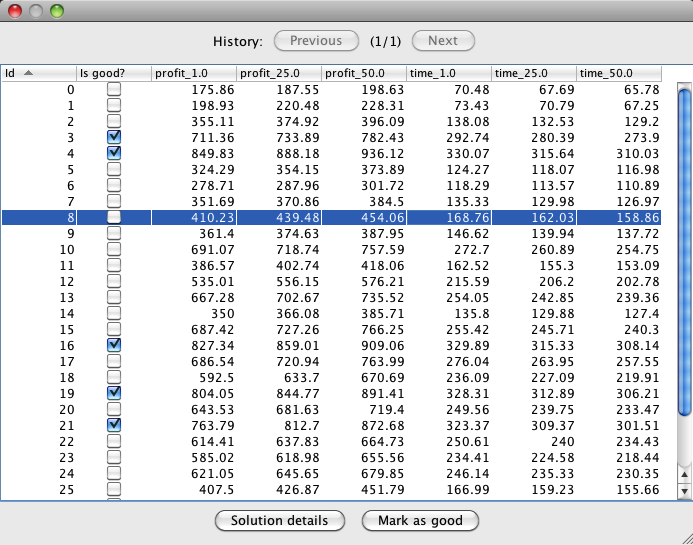
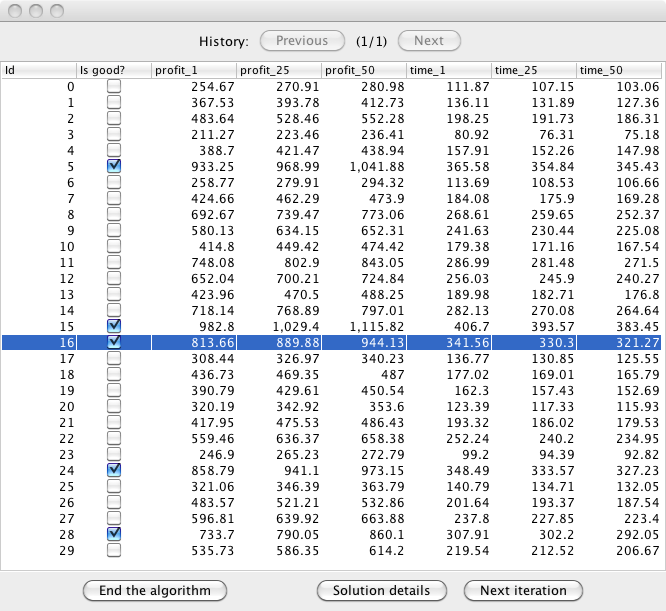
working

Changed region(s): [[0.0, 0.0, 1.0, 0.9982], [0.991, 0.967, 1.0, 0.9982]]

diff --git a/Thesis/app_user_manual.tex b/Thesis/app_user_manual.tex
@@ -39,15 +39,16 @@ solve a~problem one need to execute following steps:
   (Figure~\ref{manual_03_selected}). Click ``Solve''.
 \item A window presenting generated solutions appears
   (Figure~\ref{manual_04_mark_as_good}). Mark preferred solutions as ``good''
-  using checkboxes in the ``is good'' column.
+  using checkboxes in the ``Is good'' column. Click ``Next iteration'' in
+  order to start evolutionary optimization procedure.
 \item A window with solution details can be invoked by selecting a~solution
   and clicking the ``Solution details'' button (Figure~\ref{manual_05_dec_var}).
 \item After selecting the solutions an evolutionary optimization begins
   (Figure~\ref{manual_06_evo_loop}). New solutions are generated and one can
   mark ``good'' solutions from a new set again.
-\item If generated solutions are satisfactory, then one can stop the
-  algorithm by clicking ``Mark as good'' when no solutions are selected
-  (Figure~\ref{manual_07_finish}).
+\item If generated solutions are satisfactory, then one can stop the algorithm
+  by clicking ``End the algorithm''. It there are solutions marked as good,
+  they will be saved. (Figure~\ref{manual_07_finish}).
 \end{enumerate}
 
 \begin{figure}[htb]
@@ -66,14 +67,14 @@ solve a~problem one need to execute following steps:
 
 \begin{figure}
   \centering
-  \includegraphics[scale=0.7]{img/manual/04_marking_solutions}
+  \includegraphics[scale=0.6]{img/manual/04_marking_solutions}
   \caption{Marking the ``good'' subset of generated solutions}
   \label{manual_04_mark_as_good}
 \end{figure}
 
 \begin{figure}
   \centering
-  \includegraphics[scale=0.7]{img/manual/05_solution_details}
+  \includegraphics[scale=0.6]{img/manual/05_solution_details}
   \caption{Decision variables for a given solution}
   \label{manual_05_dec_var}
 \end{figure}
@@ -87,7 +88,7 @@ solve a~problem one need to execute following steps:
 
 \begin{figure}
   \centering
-  \includegraphics[scale=0.7]{img/manual/07_end_of_run}
+  \includegraphics[scale=0.6]{img/manual/07_end_of_run}
   \caption{Finish the problem analysis}
   \label{manual_07_finish}
 \end{figure}
@@ -167,14 +168,14 @@ using the history toolbar (see\ref{manual_10_history}).
 
 \begin{figure}
   \centering
-  \includegraphics[scale=0.7]{img/manual/09_sorton}
+  \includegraphics[scale=0.6]{img/manual/09_sorton}
   \caption{Sorting solutions on a given criterion}
   \label{manual_09_sorton}
 \end{figure}
 
 \begin{figure}
   \centering
-  \includegraphics[scale=0.7]{img/manual/10_history}
+  \includegraphics[scale=0.6]{img/manual/10_history}
   \caption{Reviewing the history of generated solutions}
   \label{manual_10_history}
 \end{figure}
@@ -195,7 +196,7 @@ starting with \texttt{\#}, e.g. \texttt{ \#a-line-comment} and (2) block
 comments, enclosed in \texttt{/* */}. Whitespaces are ignored.
 
 A problem file consists of lines, each line contains a~statement ended by
-a~semicolon (\texttt{;}). A statement can define the supposed utility
+a~semicolon (\texttt{;}). A~statement can define the supposed utility
 function, a~variable, a~goal or a~constraint. The variables are defining the
 problem domain. They can be continuous (with double floating point precision),
 binary (indicated by a \texttt{(B)} flag) or integer (\texttt{(I)} flag).

diff --git a/Thesis/sec_implementation.tex b/Thesis/sec_implementation.tex
@@ -22,7 +22,7 @@ the decision maker is required. Another restriction is imposed by the need of
 inducing decision rules from the DM's evaluated examples of solutions.
 
 The decision maker has to provide a problem he or she wants to solve. It can
-be done in a model file. If one wants to change the default parameters'
+be done in a~model file. If one wants to change the default parameters'
 values, then a~configuration file with the values is also required. Moreover,
 during the algorithm's run, presence of the decision maker is needed in order
 to select ``good'' solutions from the provided ones. Consult the user manual
@@ -300,8 +300,8 @@ Figure~\ref{chart_examples} and \ref{chart_examples2}).
   iterations. Example shown in Figure~\ref{ch_ex_a}. This is a basic chart for
   the analysis, because it shows a high-level overview of the run from the
   decision maker's perspective.
-\item A change in a~population shape during the interior loop run. May show a
-  convergence of a population to a specific region. Figure~\ref{ch_ex_b}.
+\item A change in a~population shape during the interior loop run. May show
+  a~convergence of a~population to a specific region. Figure~\ref{ch_ex_b}.
 \item A change of the utility value along with the primary score during the
   interior loop --- a run of the evolutionary algorithm. Figure~\ref{ch_ex_c}.
 \item Shows the change in a~population of an evolutionary algorithm from the
@@ -332,7 +332,7 @@ Figure~\ref{chart_examples} and \ref{chart_examples2}).
       \includegraphics[width=0.65\textwidth]{charts/utilgen_01}
       \label{ch_ex_c}
     }
-    \subfloat[The change of the utility and the primary score in a population]{
+    \subfloat[The change of the utility and the primary score in a~population]{
       \includegraphics[width=0.65\textwidth]{charts/utilind_01}
       \label{ch_ex_d}
     }

diff --git a/Thesis/sec_exp_uncertainty.tex b/Thesis/sec_exp_uncertainty.tex
@@ -73,11 +73,11 @@ the best result in a given run appears in the first few generations.
 
 Having six-dimensional objective space it is impossible to provide a section
 of this space on a two-dimensional chart. However, these dimensions are not
-completely independent. There is a correlation between the quantiles of the
-same objective. This can be observed in Figure~\ref{pres_valweight} --- showing
-the movement of population during the generation on a section of objective
-space, or even better in Figure~\ref{pres_dm_choices} --- solutions marked by the
-decision maker as ``good''.
+completely independent. There is a~correlation between the quantiles of the
+same objective. This can be observed in Figure~\ref{pres_valweight} ---
+showing the movement of population during the generation on a section of
+objective space, or even better in Figure~\ref{pres_dm_choices} --- solutions
+marked by the decision maker as ``good''.
 
 As expected the solutions chosen by the DM are near the pareto-front. However,
 not all of them are part of the front. Knowing that there are four other goals
@@ -363,7 +363,7 @@ same order of magnitude as the value itself.
 
 In the Mix and DTLZ7 problems the effect of inconsistencies in DM's decisions
 starts to be an important factor only in case of medium- (noise$_5$) --- the
-results differ about $8\%$ and in case of a major-inconsistencies (noise$_6$)
+results differ about $8\%$ and in case of a~major-inconsistencies (noise$_6$)
 --- difference about 12\% for the mix problem and about 8\% for the DTLZ7
 problem.
 

diff --git a/Thesis/sec_darwin_idea.tex b/Thesis/sec_darwin_idea.tex
@@ -22,7 +22,7 @@ fitted to his or her preferences. The IMO framework is presented in
 Figure~\ref{imoprocess_uml}.
 
 The rationale behind the interactive process is that the decision maker is
-interested only in a small subset of preferred solutions or even in a single
+interested only in a~small subset of preferred solutions or even in a single
 most preferred one.
 
 This process makes it possible to gather preference information and then use
@@ -228,7 +228,7 @@ example in the form of analyst's suggestions, can be taken into account.
 
 At this stage goals and constraints are allowed to contain intervals
 corresponding to the uncertainty of a model. Thus a set of scenarios needs to
-be generated. Each of these scenarios is a realisation of the problem with
+be generated. Each of these scenarios is a~realisation of the problem with
 fixed values of the intervals. It is worth noting that if the problem
 constraints are given in an uncertain form --- that is containing coefficients
 in the form of intervals --- it could be impossible to determine whether a

diff --git a/Thesis/sec_experiment_results.tex b/Thesis/sec_experiment_results.tex
@@ -31,7 +31,7 @@ essential to simulate the DM. Simulating the decision maker guarantees
 repeatable process across the test runs.
 
 In the DARWIN method interaction with the decision maker occurs by showing him
-or her a list of generated solutions (usually 30) and asking him or her to
+or her a~list of generated solutions (usually 30) and asking him or her to
 indicate a few ``good'' ones.
 
 To simulate the DM one needs to simulate his or her selections. It is assumed
@@ -90,7 +90,7 @@ The experiments were performed using following problems:
     $\bar{a_2}$).
 
     Knapsack constraint is given. One can choose items up to a certain weight
-    ($b$). There is a vector of weights associated with each item
+    ($b$). There is a~vector of weights associated with each item
     ($\bar{w}$). The limit is defined that it is possible to choose about
     $2/3$ of the items.
 
